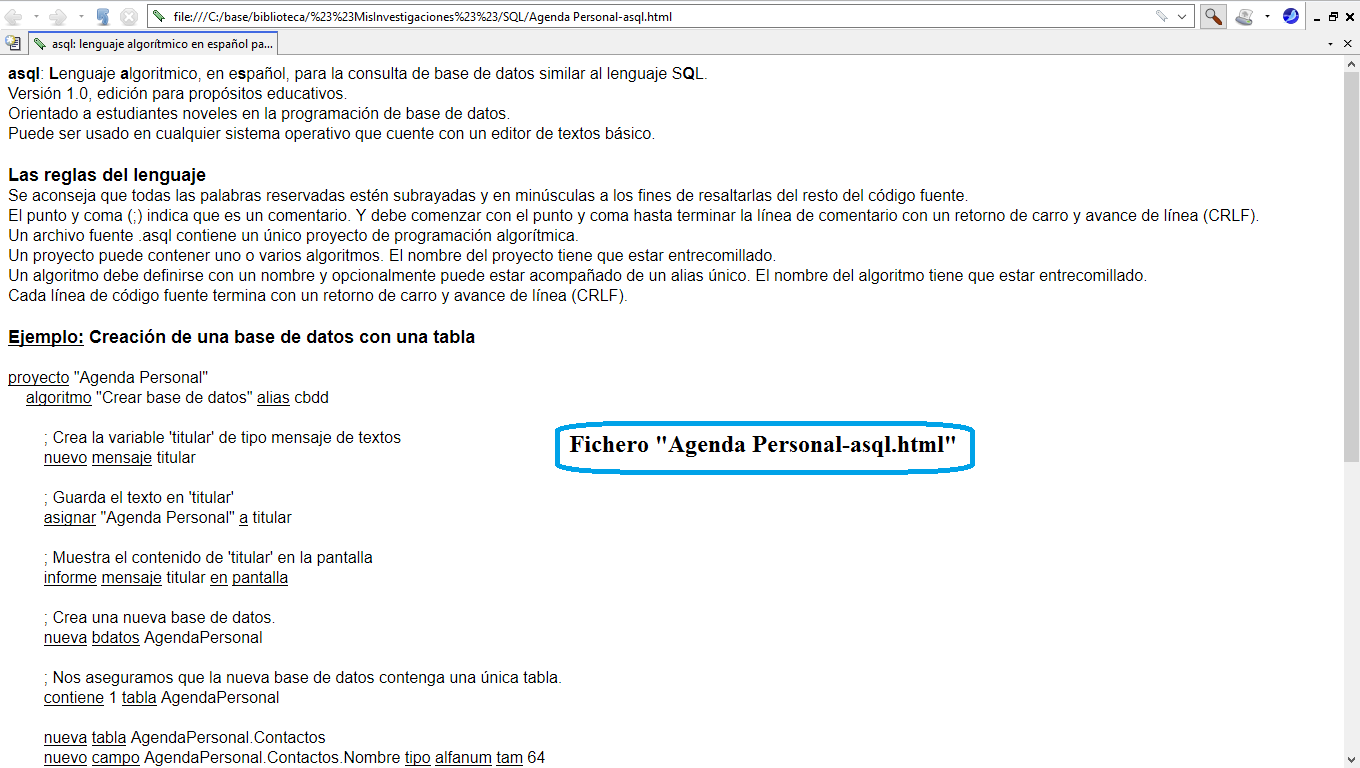
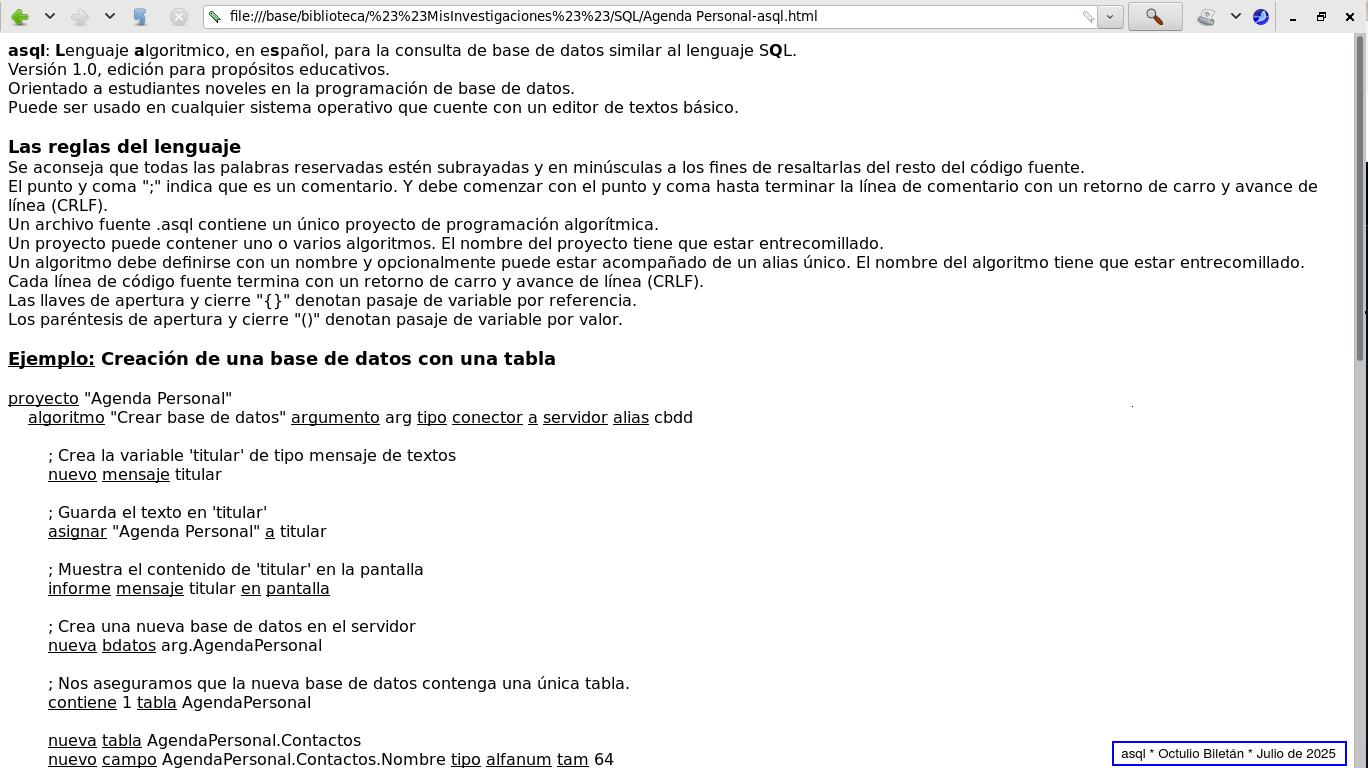
Add files via upload

Changed region(s): [[0.0, 0.0, 1.0, 1.0]]

diff --git a/base/AreaEducativa/asql/Agenda Personal-asql.html b/base/AreaEducativa/asql/Agenda Personal-asql.html
@@ -9,6 +9,8 @@
   </head>
   <body>
     <b>asql</b>: <b>L</b>enguaje <b>a</b>lgoritmico, en e<b>s</b>pañol,
+
+
     para la consulta de base de datos similar al lenguaje S<b>Q</b>L.<br>
     Versión 1.0, edición para propósitos educativos.<br>
     Orientado a estudiantes noveles en la programación de base de datos.<br>
@@ -18,7 +20,7 @@
     <font size="+1"><b>Las reglas del lenguaje</b></font><br>
     Se aconseja que todas las palabras reservadas estén subrayadas y en
     minúsculas a los fines de resaltarlas del resto del código fuente.<br>
-    El punto y coma (;) indica que es un comentario. Y debe comenzar con
+    El punto y coma ";" indica que es un comentario. Y debe comenzar con
     el punto y coma hasta terminar la línea de comentario con un retorno
     de carro y avance de línea (CRLF).<br>
     Un archivo fuente .asql contiene un único proyecto de programación
@@ -30,12 +32,17 @@
     que estar entrecomillado.<br>
     Cada línea de código fuente termina con un retorno de carro y avance
     de línea (CRLF).<br>
+    Las llaves de apertura y cierre "{}" denotan pasaje de variable por
+    referencia.<br>
+    Los paréntesis de apertura y cierre "()" denotan pasaje de variable
+    por valor.<br>
     <br>
     <font size="+1"><u><b>Ejemplo:</b></u><b> Creación de una base de
         datos con una tabla</b><br>
     </font><br>
     <u>proyecto</u> "Agenda Personal"<br>
-    &nbsp;&nbsp;&nbsp; <u>algoritmo</u> "Crear base de datos" <u>alias</u>
+    &nbsp;&nbsp;&nbsp; <u>algoritmo</u> "Crear base de datos" <u>argumento</u>
+    arg <u>tipo</u> <u>conector</u> <u>a</u> <u>servidor</u> <u>alias</u>
     cbdd<br>
     <br>
     &nbsp;&nbsp;&nbsp; &nbsp;&nbsp;&nbsp; ; Crea la variable 'titular'
@@ -52,10 +59,10 @@
     &nbsp;&nbsp;&nbsp; &nbsp;&nbsp;&nbsp; <u>informe</u> <u>mensaje</u>
     titular <u>en</u> <u>pantalla</u><br>
     <br>
-    &nbsp;&nbsp;&nbsp; &nbsp;&nbsp;&nbsp; ; Crea una nueva base de
-    datos.<br>
+    &nbsp;&nbsp;&nbsp; &nbsp;&nbsp;&nbsp; ; Crea una nueva base de datos
+    en el servidor<br>
     &nbsp;&nbsp;&nbsp; &nbsp;&nbsp;&nbsp; <u>nueva</u> <u>bdatos</u>
-    AgendaPersonal<br>
+    arg.AgendaPersonal<br>
     <br>
     &nbsp;&nbsp;&nbsp; &nbsp;&nbsp;&nbsp; ; Nos aseguramos que la nueva
     base de datos contenga una única tabla.<br>
@@ -95,7 +102,36 @@
     <br>
     &nbsp;&nbsp;&nbsp; <u>fin</u> <u>algoritmo</u> cbdd<br>
     <br>
-    &nbsp;&nbsp;&nbsp; <u>invocar</u> cbdd<br>
+    &nbsp;&nbsp;&nbsp; <u>algoritmo</u> "Conectarse al servidor SQL" <u>devuelve</u>
+    <u>tipo</u> <u>conector</u> <u>a</u> <u>servidor</u> <u>alias</u>
+    abrirConexion<br>
+    &nbsp;&nbsp;&nbsp; &nbsp;&nbsp;&nbsp; <u>nuevo</u> idConexion <u>tipo</u>
+    <u>conector</u> <u>a</u> <u>servidor</u><br>
+    <br>
+    &nbsp;&nbsp;&nbsp;&nbsp; &nbsp;&nbsp; <u>abrir</u> <u>sesion</u> <u>en</u>
+    <u>servidor</u> "localhost" <u>con</u> <u>cuenta</u> "postgres" <u>y</u>
+    <u>clave</u> "postgres"<br>
+    &nbsp;&nbsp;&nbsp; &nbsp;&nbsp;&nbsp; <u>asignar</u> <u>sesion</u>
+    a idConexion<br>
+    <br>
+    &nbsp;&nbsp;&nbsp; &nbsp;&nbsp;&nbsp; <u>devolver</u> idConexion<br>
+    &nbsp;&nbsp;&nbsp; <u>fin</u> <u>algoritmo</u> abrirConexion<br>
+    <br>
+    &nbsp;&nbsp;&nbsp; <u>algoritmo</u> "Desconectarse del servidor
+    SQL" <u>argumento</u> arg <u>tipo</u> <u>conector</u> <u>a</u> <u>servidor</u>
+    <u>alias</u> cerrarConexion<br>
+    &nbsp;&nbsp;&nbsp; &nbsp;&nbsp;&nbsp; <u>cerrar</u> <u>sesion</u>
+    arg<br>
+    <br>
+    &nbsp;&nbsp;&nbsp; <u>fin</u> <u>algoritmo</u> cerrarConexion<br>
+    <br>
+    ; ----------------------------------------------------------<br>
+    &nbsp;&nbsp;&nbsp; <u>nuevo</u> miConexion <u>tipo</u> <u>conector</u>
+    <u>a</u> <u>servidor</u><br>
+    <br>
+    &nbsp;&nbsp;&nbsp; <u>invocar</u> abrirConexion{miConexion}<br>
+    &nbsp;&nbsp;&nbsp; <u>invocar</u> cbdd(miConexion)<br>
+    &nbsp;&nbsp;&nbsp; <u>invocar</u> cerrarConexion(miConexion)<br>
     <br>
     <u>fin</u> <u>proyecto</u><br>
     <br>
